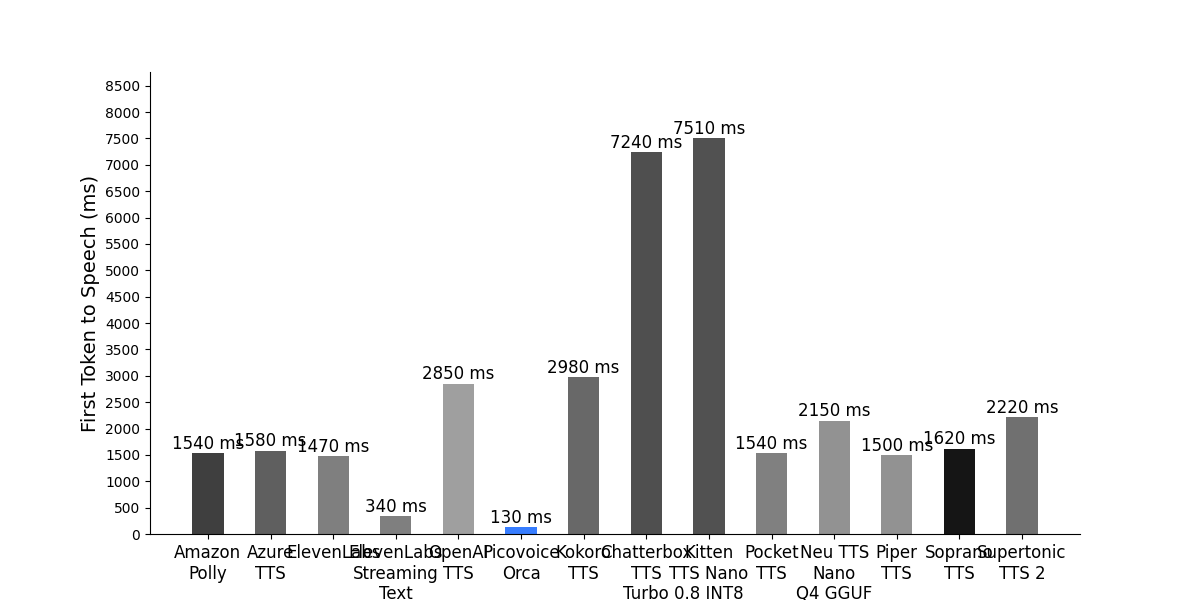
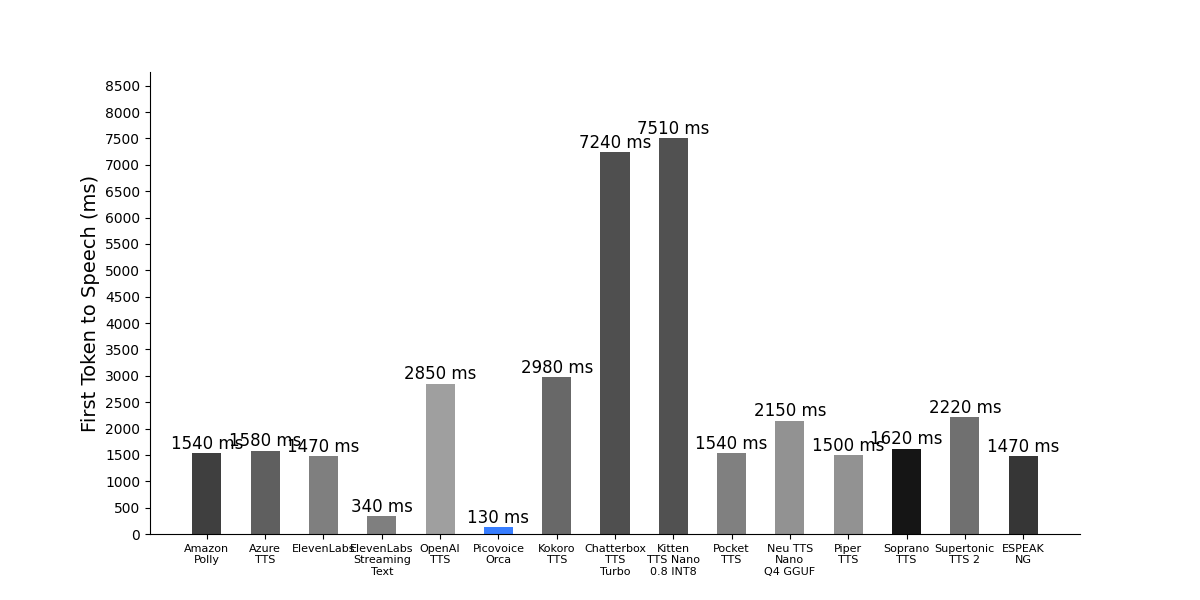
Added espeak-ng to latency benchmark.

Changed region(s): [[0.1233, 0.18, 0.8942, 1.0]]

diff --git a/tts/_tts.py b/tts/_tts.py
@@ -1,6 +1,7 @@
 import numpy as np
 import torch
 import os
+import subprocess
 import asyncio
 import base64
 import json
@@ -45,6 +46,7 @@ class Synthesizers(Enum):
     PIPER_TTS = "piper_tts"
     SOPRANO_TTS = "soprano_tts"
     SUPERTONIC_TTS_2 = "supertonic_tts_2"
+    ESPEAK_NG = "espeak_ng"
 
 class Synthesizer:
     def __init__(
@@ -108,6 +110,7 @@ class Synthesizer:
             Synthesizers.PIPER_TTS: PiperSynthesizer,
             Synthesizers.SOPRANO_TTS: SopranoSynthesizer,
             Synthesizers.SUPERTONIC_TTS_2: Supertonic2Synthesizer,
+            Synthesizers.ESPEAK_NG: EspeakNGSynthesizer,
         }
 
         if engine not in subclasses:
@@ -507,7 +510,7 @@ class KokoroSynthesizer(Synthesizer):
 
         self._pipeline = KPipeline(
                 lang_code=self.LANGUAGE_CODE,
-                # device="cpu",  # TODO (Ted): Hard-coded for now!
+                device="cpu",
         ) # <= make sure lang_code matches voice, reference above.
 
     def synthesize(
@@ -569,7 +572,7 @@ class ChatterboxTurboSynthesizer(Synthesizer):
 
         from chatterbox.tts_turbo import ChatterboxTurboTTS
 
-        self._model = ChatterboxTurboTTS.from_pretrained(device="cuda")
+        self._model = ChatterboxTurboTTS.from_pretrained(device="cpu")
 
     def synthesize(
             self,
@@ -918,6 +921,63 @@ class Supertonic2Synthesizer(Synthesizer):
         self._timer.maybe_log_time_first_audio()
 
         self._audio_sink.add(data=np.squeeze(wav, axis=0))  # TODO (Ted): Check if data=audio is desired.
+
+        self._timer.log_time_last_audio()
+
+    def __str__(self) -> str:
+        return f"{self.NAME}"
+
+
+class EspeakNGSynthesizer(Synthesizer):
+    NAME = "Espeak NG"
+    SAMPLE_RATE = 22050
+    AUDIO_ENCODING = AudioEncodings.BYTES  # TODO (Ted): Check this. It's likely wrong.
+    CHUNK_SIZE_MAX_BYTES = 4096
+
+    def __init__(
+            self,
+            **kwargs: Any,
+    ) -> None:
+        super().__init__(
+                sample_rate=self.SAMPLE_RATE,
+                audio_encoding=self.AUDIO_ENCODING,
+                **kwargs,
+        )
+
+    def synthesize(
+            self,
+            text_stream: Generator[
+                str,
+                None,
+                None,
+            ],
+    ):
+        text = self._read_text_stream(text_stream)
+
+        self._timer.maybe_log_time_first_synthesis_request()
+
+        cmd = [
+            "espeak-ng",
+            "--stdout",
+            text,
+        ]
+
+        process = subprocess.Popen(
+            cmd,
+            stdout=subprocess.PIPE,
+            stderr=subprocess.PIPE,
+            bufsize=0
+        )
+
+        while True:
+            chunk = process.stdout.read(self.CHUNK_SIZE_MAX_BYTES)
+
+            self._timer.maybe_log_time_first_audio()
+
+            if not chunk:
+                break
+
+            self._audio_sink.add(data=chunk)  # TODO (Ted): Check if data=audio is desired.
 
         self._timer.log_time_last_audio()
 

diff --git a/plot_results.py b/plot_results.py
@@ -37,6 +37,7 @@ COLOR_NEU_TTS_NANO_Q4_GGUF = rgb_from_hex("#929292")
 COLOR_PIPER_TTS = rgb_from_hex("#929292")
 COLOR_SOPRANO_TTS = rgb_from_hex("#151515")
 COLOR_SUPERTONIC_TTS_2 = rgb_from_hex("#707070")
+COLOR_ESPEAK_NG = rgb_from_hex("#363636")
 
 ENGINE_PRINT_NAMES = {
     Synthesizers.AMAZON_POLLY: 'Amazon\nPolly',
@@ -53,6 +54,7 @@ ENGINE_PRINT_NAMES = {
     Synthesizers.PIPER_TTS: "Piper\nTTS",
     Synthesizers.SOPRANO_TTS: "Soprano\nTTS",
     Synthesizers.SUPERTONIC_TTS_2: "Supertonic\nTTS 2",
+    Synthesizers.ESPEAK_NG: "ESPEAK\nNG",
 }
 
 ENGINE_COLORS = {
@@ -70,6 +72,7 @@ ENGINE_COLORS = {
     Synthesizers.PIPER_TTS: COLOR_PIPER_TTS,
     Synthesizers.SOPRANO_TTS: COLOR_SOPRANO_TTS,
     Synthesizers.SUPERTONIC_TTS_2: COLOR_SUPERTONIC_TTS_2,
+    Synthesizers.ESPEAK_NG: COLOR_ESPEAK_NG,
 }
 
 
@@ -187,7 +190,7 @@ def _plot(
 
     y_max = max_delay + (max_delay / 3) if show_error_bars else max_delay + (max_delay / 6)
     plt.ylim(0, y_max)
-    plt.xticks(np.arange(0, len(rounded_results)), [ENGINE_PRINT_NAMES[x[0]] for x in results], fontsize=12)
+    plt.xticks(np.arange(0, len(rounded_results)), [ENGINE_PRINT_NAMES[x[0]] for x in results], fontsize=8)
     y_arange = np.arange(0, y_max, 500)
     plt.yticks(y_arange, [f"{x:.0f}" for x in y_arange])
     metric = "Voice Assistant Response Time" if not only_tts else "First Token to Speech"
